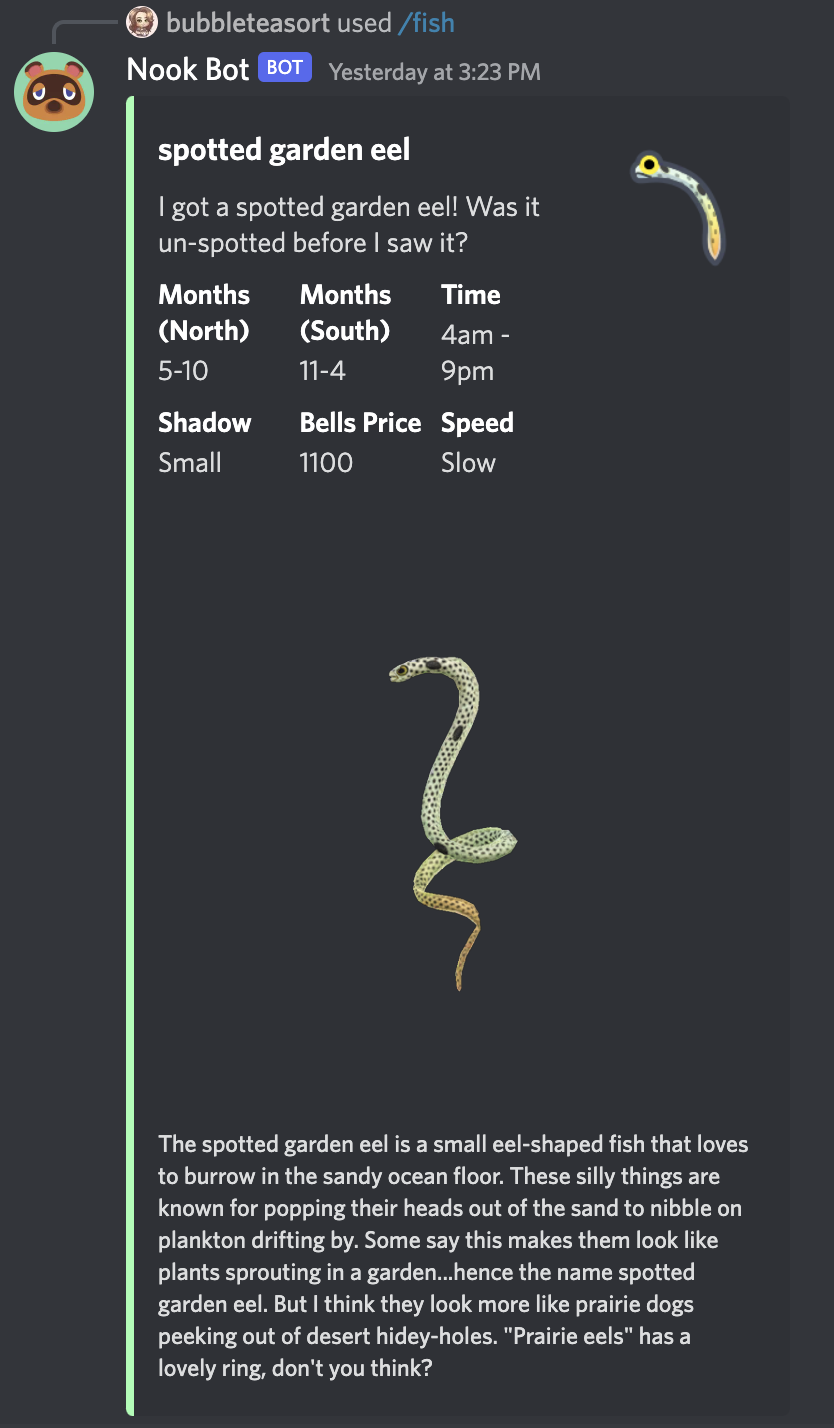
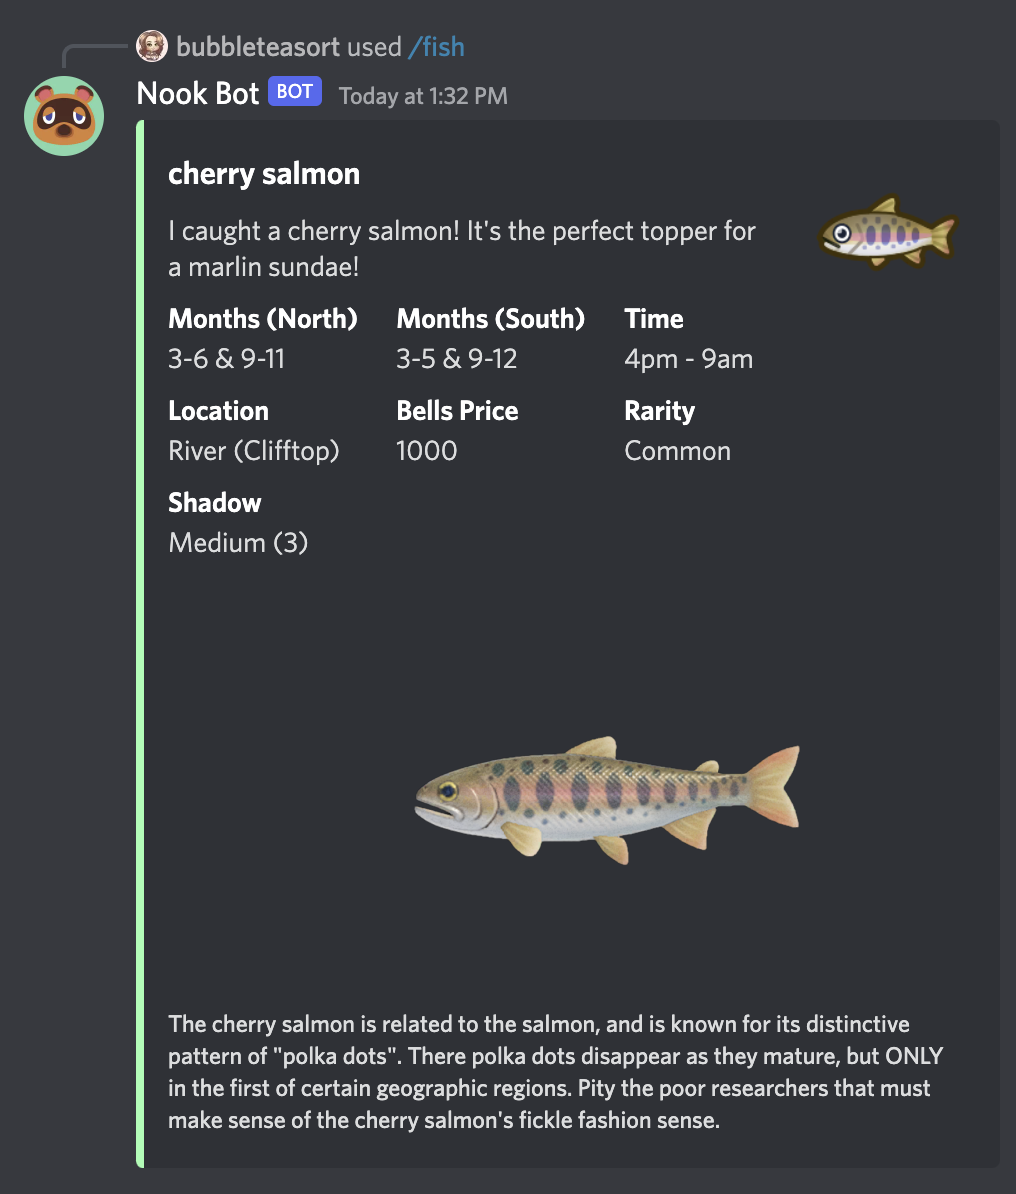
Update fish command

diff --git a/src/commands/fun/fish.js b/src/commands/fun/fish.js
@@ -7,8 +7,8 @@ module.exports = {
     .setDescription(`Catch a fish!`),
   async execute(interaction, client) {
     try {
-      const fishFound = Math.floor(Math.random() * 40);
-      const url = await fetch(`https://acnhapi.com/v1/sea/${fishFound}`).then(
+      const fishFound = Math.floor(Math.random() * 80);
+      const url = await fetch(`https://acnhapi.com/v1/fish/${fishFound}`).then(
         (res) => res.json()
       );
 
@@ -35,8 +35,8 @@ module.exports = {
             inline: true,
           },
           {
-            name: `Shadow`,
-            value: `${url.shadow}`,
+            name: `Location`,
+            value: `${url.availability["location"]}`,
             inline: true,
           },
           {
@@ -45,8 +45,13 @@ module.exports = {
             inline: true,
           },
           {
-            name: `Speed`,
-            value: `${url.speed}`,
+            name: `Rarity`,
+            value: `${url.availability["rarity"]}`,
+            inline: true,
+          },
+          {
+            name: `Shadow`,
+            value: `${url.shadow}`,
             inline: true,
           },
         ])
